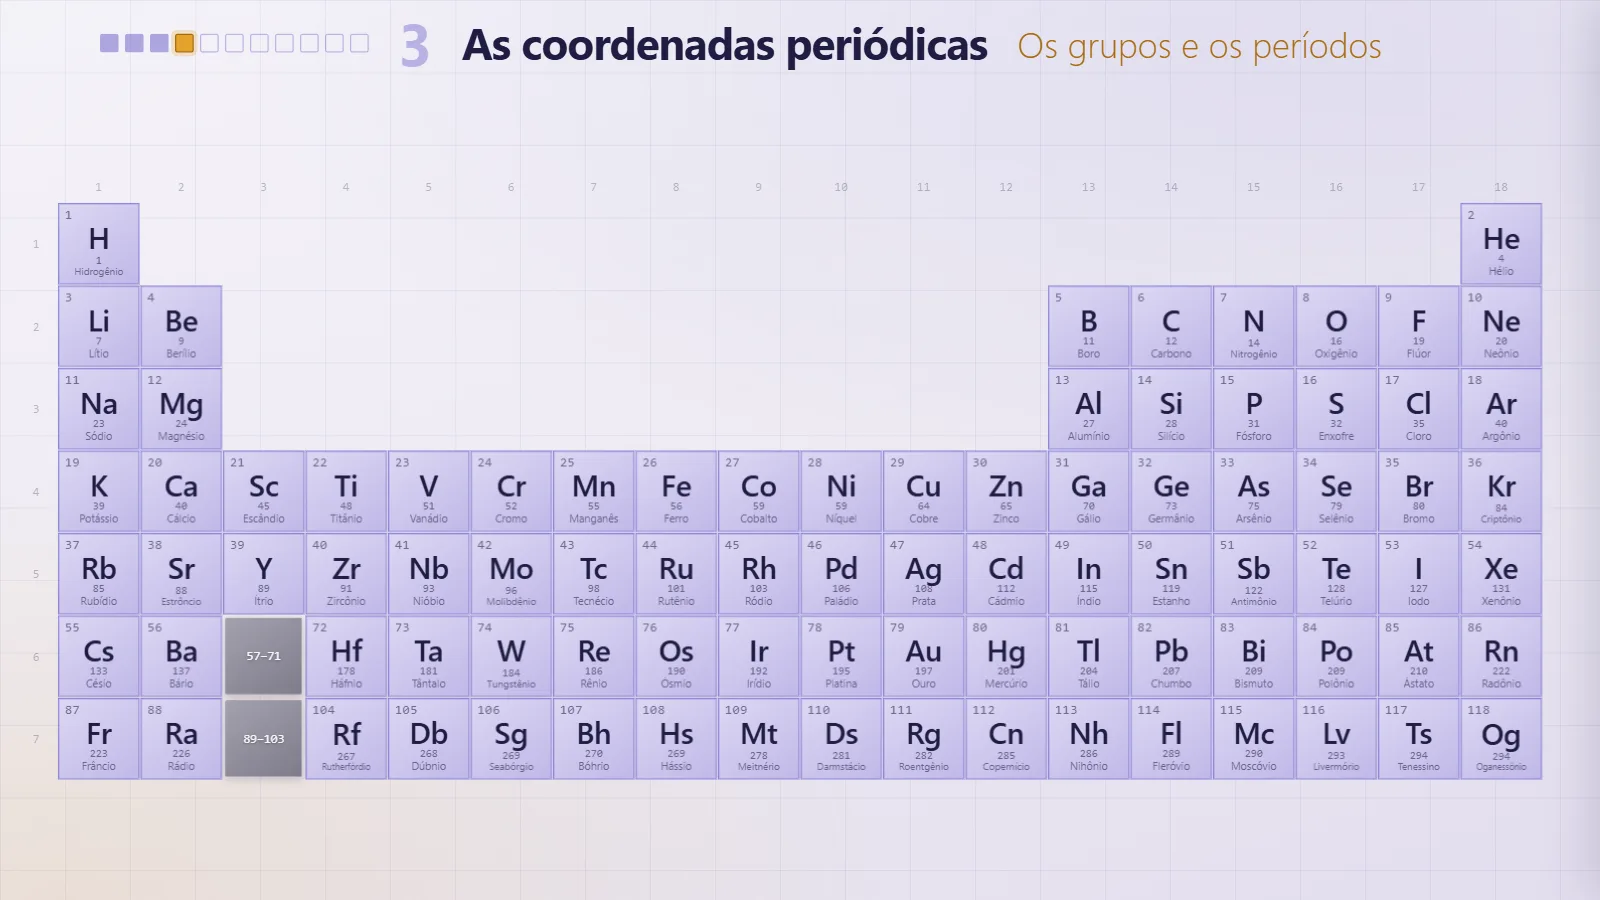
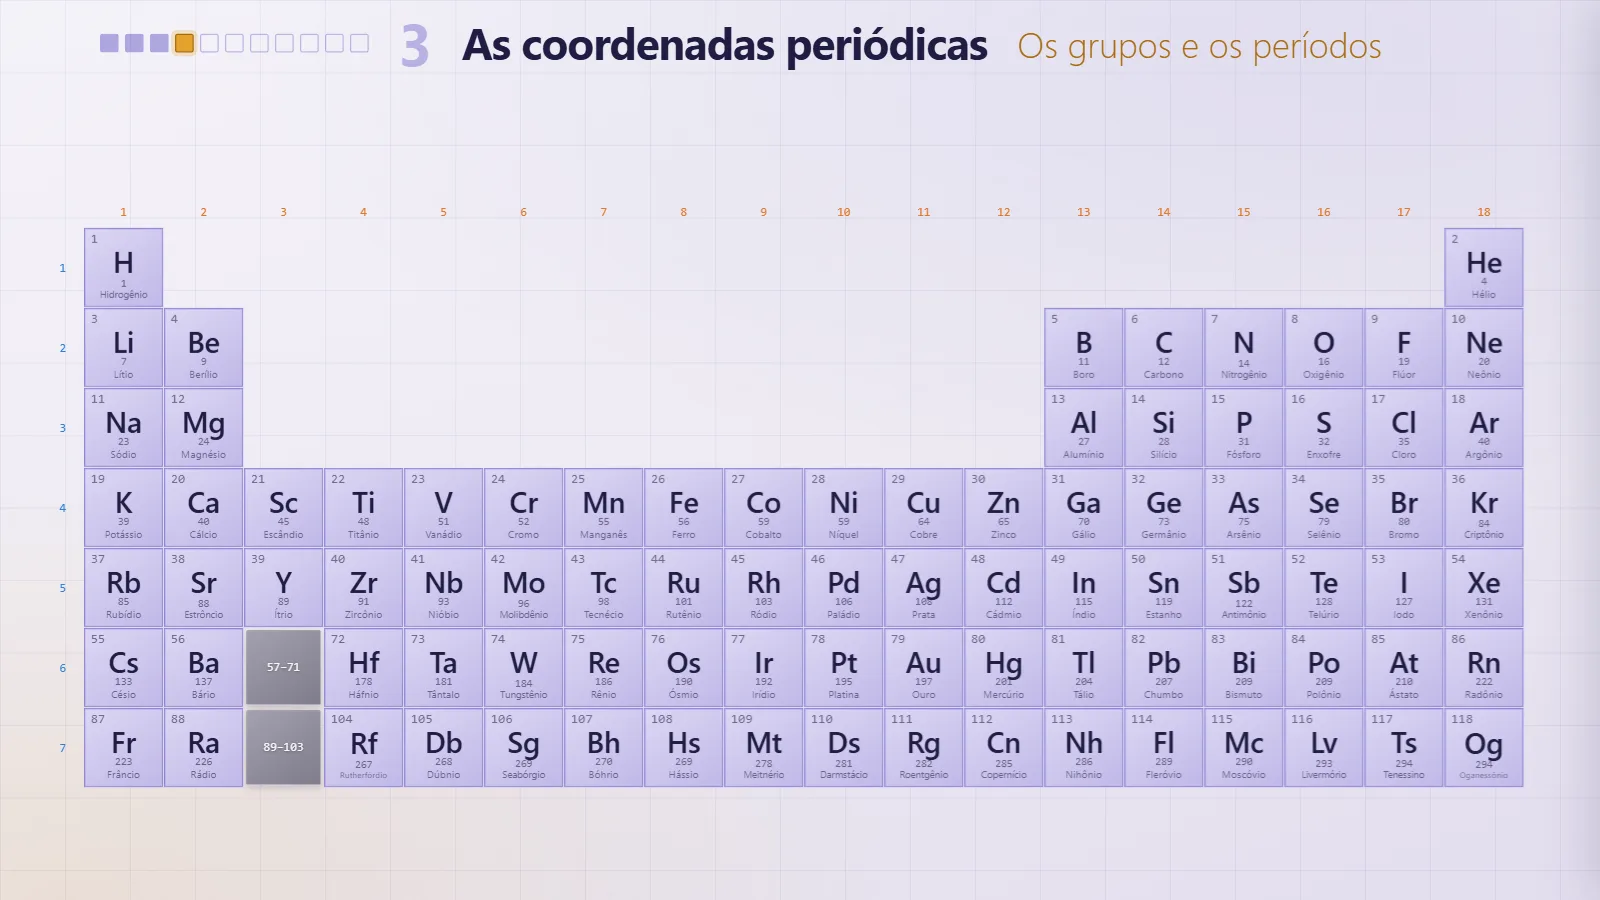
v16.6 · Slide 4: a tabela inteira 3 px à direita, 14 px abaixo, a 0,97 (fora do celular); fotos do carrossel refeitas

Changed region(s): [[0.0312, 0.2178, 0.9688, 0.9022]]

diff --git a/tabela-periodica.html b/tabela-periodica.html
@@ -505,6 +505,10 @@ text.sim{font-family:var(--display);font-weight:700;font-size:4.1px;text-anchor:
   /* --abre: o encolher da tabela aberta em linhas ou em colunas (LC25) */
   transform:translate(var(--px,0px),var(--py,0px)) scale(calc(var(--zoom,1) * var(--abre,1)));
 }
+/* a mesa do slide 4 (As coordenadas periódicas), no lugar e no tamanho
+   que o professor deixou na montagem: 3 px para a direita, 14 px para
+   baixo, a 0,97. Fora do celular, que tem a medida dele (AJUSTE). */
+html:not(.celular) .mesa[data-slide="3"]{--px:3px;--py:14px;--zoom:.97}
 /* A TABELA ABERTA (LC25): as cartas andam para as linhas ou para as
    colunas, os números vão junto, e a mesa encolhe um fio para caber */
 /* "São 7 linhas" / "São 18 colunas", na tabela aberta pelo toque (LC25.conta) */
@@ -2472,7 +2476,7 @@ const SLIDES = [
    worker recebe-a no endereço com que é registado (sw.js?v=…). Mudando
    este texto, muda o endereço, o aparelho instala o serviço novo e o
    cache velho vai-se embora — não há uma segunda versão para esquecer. */
-const VERSAO = 'v16.5';
+const VERSAO = 'v16.6';
 
 /* A CAPA NOVA — a ideia do Claude Design: fundo escuro, o título grande e
    claro à esquerda, a tabelinha apagada ao fundo à direita e o sódio, o
@@ -2917,6 +2921,7 @@ function montaTabela(i){
                  + (i === 6 || i === 7 || i === 9 ? ' grupos' : '') + (i === 7 ? ' series8' : '')
                  + (comSeries ? ' natureza' : '') + (i === 9 ? ' valencia' : '')
                  + (i === 10 ? ' blocos' : '');   /* o slide 11: os blocos s, p, d e f */
+  mesa.dataset.slide = i;      /* o CSS de um slide só pega na mesa por aqui */
   mesa.style.setProperty('--L', LADO + 'px');
   mesa.style.setProperty('--H', (LADO/2) + 'px');
   mesa.style.setProperty('--k', (LADO/LADO_BASE).toFixed(3));
